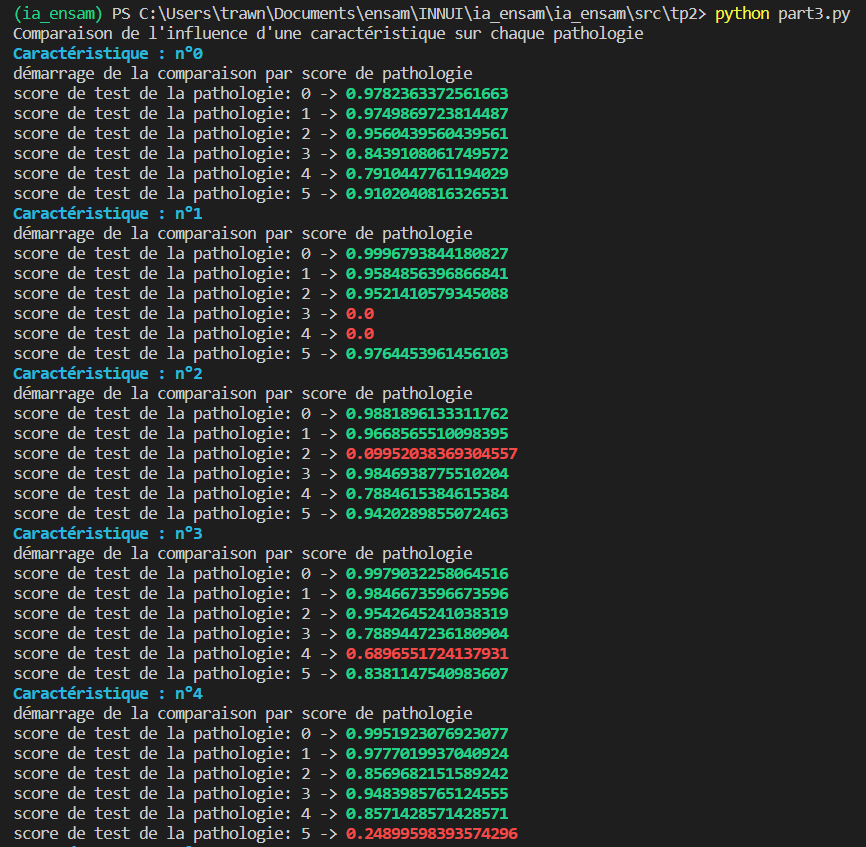
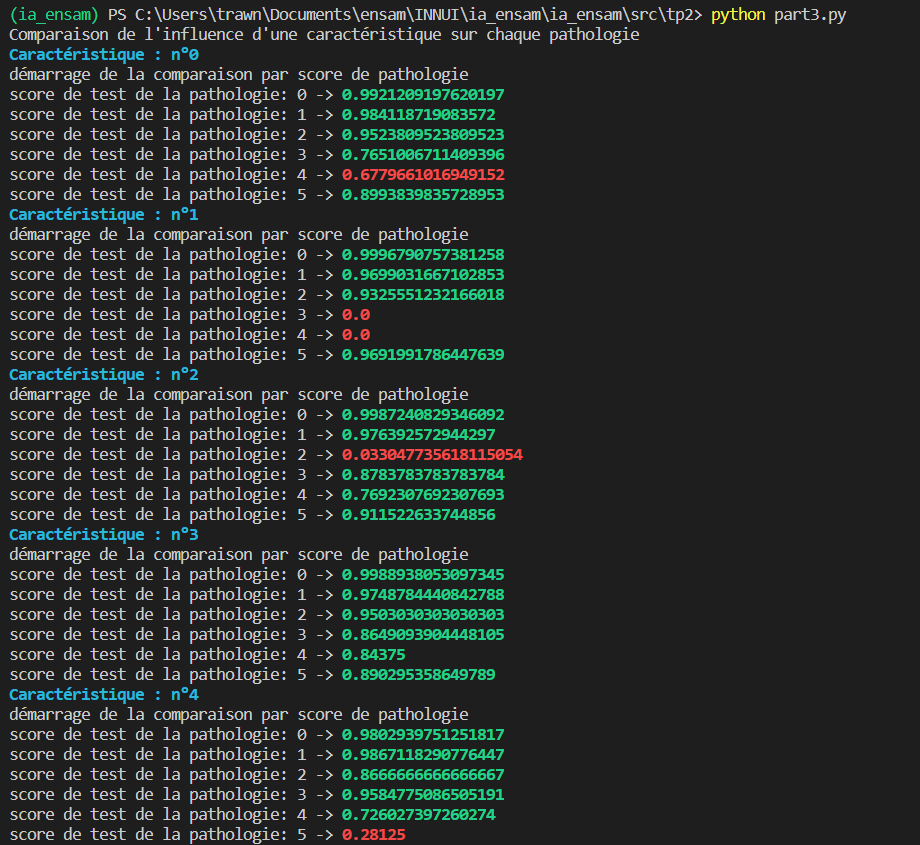
completing doc part3 + changing pics

Changed region(s): [[0.0, 0.0, 0.9977, 1.0]]

diff --git a/src/tp2/README.md b/src/tp2/README.md
@@ -84,3 +84,22 @@ Pour tester l'importance de chaque caractéritique on va faire plusieurs entrain
  >C'est un score plutôt élevé malgré qu'on ait enlevé 7 caractéristiques.
 
 ### __Q3.2__ : À l’aide de la Q 2.2, essayez de déterminer si certaines entrées sont plus déterminantes sur l’apparition decertaines pathologies.
+
+Le programme va ici filtrer chaque jeu de donnés avec juste une seule caractéristique et retourner le score de chaque pathlogie dans le cadre du test:
+
+ ![score_path_par_carac1](https://raw.githubusercontent.com/Harcameur/ia_ensam/main/src/tp2/ressources/score_path_par_carac1.png)
+
+ ![score_path_par_carac2](https://raw.githubusercontent.com/Harcameur/ia_ensam/main/src/tp2/ressources/score_path_par_carac2.png)
+
+Les informations ressortants des résultats sont :
+
+* L'age est déterminants pour toutes les pathologies sauf la 4 et moyennement pour la 3.
+* La caractéristique 1 est déterminants pour toutes les pathologies sauf la 3 et la 4.
+* La caractéristique 2 est déterminants pour toutes les pathologies sauf la 2 et moyennement la 4.
+* La caractéristique 3 est déterminants pour toutes les pathologies surtout pour la 0, 1 et 2.
+* La caractéristique 4 est déterminants pour toutes les pathologies sauf la 5 et moyennement la 4.
+* La caractéristique 5 est déterminants pour toutes les pathologies.
+* La caractéristique 6 est déterminants pour la pathologie 0 surtout et moyennement 3.
+* La caractéristique 7 est déterminants pour toutes les pathologies sauf la 4.
+
+Si on fait un bilan on voit que les caractéristiques 5 et 3 sont les caractéristiques les plus déterminantes pour toutes les pathologies.
